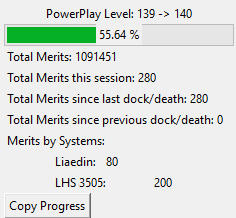
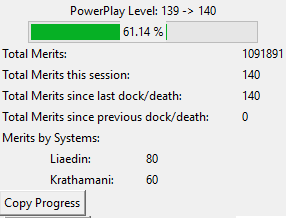
Fixed formatting of the label in the screenshot, added version checking & allowed EDMC to be able to be loaded after the game started

diff --git a/src/load.py b/src/load.py
@@ -23,7 +23,7 @@ from EDMCLogging import get_plugin_logger # type: ignore # noqa: N813
 
 # This **MUST** match the name of the folder the plugin is in.
 PLUGIN_NAME: str = 'PowerPlayProgress'
-plugin_version: str = '0.9.1'
+plugin_version: str = '0.9.0'
 
 logger = get_plugin_logger(f"{appname}.{PLUGIN_NAME}")
 
@@ -213,6 +213,7 @@ class PowerPlayProgress:
         current_row += 1
 
         update_version = version_check()
+        #update_version = '0.9.1'  # for testing
         if update_version != '':
             url = f"https://github.com/alby666/EDMC-PowerPlayProgress/releases/tag/v{update_version}"
             update_link = HyperlinkLabel(self.frame, text=f"Version {update_version} available", foreground="blue", cursor="hand2", url=url)
@@ -294,15 +295,16 @@ class PowerPlayProgress:
         self.powerplay_level_label.config(text=f"PowerPlay Level: {self.current_session.power_play_rank} -> {self.current_session.power_play_rank + 1}", justify=tk.CENTER)
         self.pb['value'] = round((self.total_merits - self.CurrentRankLowerBound(self.current_session.power_play_rank)) / self.NextRankDifference(self.current_session.power_play_rank) * 100, 2)
         self.value_label.config(text=str(round(self.pb['value'], 2))+' %')
-        self.total_merits_label.config(text=f"Total Merits: {round(self.total_merits, 0)}")
-        self.total_session_merits.config(text=f"Total Merits this session: {round(self.total_merits - self.starting_merits, 0)}")
-        self.total_since_merits.config(text=f"Total Merits since last dock/death: {round(self.current_session.earned_merits, 0)}")
-        self.total_prev_merits.config(text=f"Total Merits since previous dock/death: {round(self.previous_session.earned_merits, 0)}")
+        self.total_merits_label.config(text=f"Total Merits:\t\t\t\t{round(self.total_merits, 0)}")
+        self.total_session_merits.config(text=f"Total Merits this session:\t\t\t{round(self.total_merits - self.starting_merits, 0)}")
+        self.total_since_merits.config(text=f"Total Merits since last dock/death:\t\t{round(self.current_session.earned_merits, 0)}")
+        self.total_prev_merits.config(text=f"Total Merits since previous dock/death:\t{round(self.previous_session.earned_merits, 0)}")
         
         cur_row = 7
         for sys in self.systems:
             if sys.earnings > 0:
-                lbl = tk.Label(self.frame, text=f"\t{sys.system}:\t {round(sys.earnings, 0)}")
+                tab_spacing = '\t' if len(sys.system) < 8 else ''
+                lbl = tk.Label(self.frame, text=f"\t{sys.system}:\t{tab_spacing}{round(sys.earnings, 0)}")
                 lbl.grid(row=cur_row, column=0, sticky="w")
                 cur_row += 1
         self.copy_button.grid(row=cur_row, column=0, columnspan=2, sticky="W")
@@ -396,7 +398,7 @@ def journal_entry(cmdrname: str, is_beta: bool, system: str, station: str, entry
         case 'location':
             """
             Update the current system.
-            'cmdr = "CMDR hsgfhsgfhs", is_beta = "False", system = "HIP 101587", station = "JBQ-90Q", event = "Location"'
+            'cmdr = "Byrne666", is_beta = "False", system = "HIP 101587", station = "JBQ-90Q", event = "Location"'
             """
             logger.debug("Location event")
             found = False
@@ -454,6 +456,22 @@ def journal_entry(cmdrname: str, is_beta: bool, system: str, station: str, entry
         case 'powerplaymerits':
             logger.debug("PowerplayMerits event")
             #{"timestamp":"2025-03-29T10:30:53Z","event":"PowerplayMerits","Power":"Jerome Archer","MeritsGained":20,"TotalMerits":1084567}
+            #First check if EDMC was loaded after the game was started.
+            if ppp.current_session.power_play == '':
+                ppp.current_session.power_play = entry["Power"]
+                ppp.current_session.power_play_rank = ppp.CurrentRank(entry["TotalMerits"])
+                ppp.powerplay_level_label.config(text=f"PowerPlay Level: {ppp.current_session.power_play_rank} -> {ppp.current_session.power_play_rank + 1}", justify=tk.CENTER)
+                ppp.starting_merits = int(entry["TotalMerits"]) - int(entry["MeritsGained"])
+                ppp.total_merits = int(entry["TotalMerits"])
+                ppp.pb['value'] = round((ppp.starting_merits - ppp.CurrentRankLowerBound(ppp.current_session.power_play_rank)) / ppp.NextRankDifference(ppp.current_session.power_play_rank) * 100, 2)
+                ppp.value_label.config(text=str(ppp.pb['value'])+' %')    
+
+                if system != '':
+                    ppp.current_system = SystemProgress()
+                    ppp.current_system.system = system
+                    ppp.current_system.earnings = 0
+                    ppp.systems.append(ppp.current_system)
+
             ppp.current_session.earned_merits += entry["MeritsGained"]
             ppp.total_merits = entry["TotalMerits"]
             for sys in ppp.systems:
